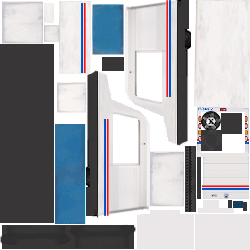
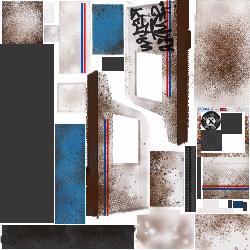
Basic multiplayer controller sensing - Input from new controller creates new player - KB and mouse considered 2 different controllers - Attempted moving new players to spawn points, partially working - Fixed minor primary input bug - Added new vehicle textures

diff --git a/Assets/Karting/Scripts/EventManager.cs b/Assets/Karting/Scripts/EventManager.cs
@@ -4,6 +4,7 @@ using System.Collections;
 using System.Collections.Generic;
 using UnityEditor;
 using UnityEngine;
+using UnityEngine.InputSystem;
 
 // Middleman for game events and interested objects
 // Uses events when multiple listeners for a game event
@@ -15,10 +16,13 @@ public class EventManager : MonoBehaviour
 
     // Fields
     [SerializeField]
-    InGameMenuManager gameMenuManager;
+    private InGameMenuManager gameMenuManager;
+    [SerializeField]
+    private List<GameObject> playerPrefabs;
 
     // Fields
     public GameObject spawnPointTree;
+    private List<Transform> recentSpawnPoints = new List<Transform>();
     // LATER: Set length when player count is determined
     private Timer[] respawnTimers = new Timer[4];
 
@@ -33,6 +37,8 @@ public class EventManager : MonoBehaviour
         // Initialize respawn timers
         for (int i = 0; i < respawnTimers.Length; i++)
             respawnTimers[i] = new Timer(3, false);
+
+        PlayerInputManager.instance.playerPrefab = playerPrefabs[0];
     }
 
     // Start is called before the first frame update
@@ -63,6 +69,16 @@ public class EventManager : MonoBehaviour
         }
     }
 
+    void OnPlayerJoined(PlayerInput pInput)
+    {
+        // Move new player to spawn point
+        Transform spawnPoint = GetSpawnPoint();
+        pInput.transform.GetChild(0).GetComponent<ArcadeKart>().transform.SetPositionAndRotation(spawnPoint.position, spawnPoint.rotation);
+
+        // Swaps next player to other vehicle
+        PlayerInputManager.instance.playerPrefab = playerPrefabs[(Player.players.Count + 1) % 2];
+    }
+
     public void PlayerDeath(object sender, ScoreEventArgs e)
     {
         // start respawn timer for dead player
@@ -74,10 +90,29 @@ public class EventManager : MonoBehaviour
             GameManager.Instance.AwardPoints(e.scorerId, e.scoreEvent);
     }
 
+    public Transform GetSpawnPoint()
+    {
+        Transform spawnpoint;
+
+        do
+        {
+            // Select a random spawn point
+            spawnpoint = spawnPointTree.transform.GetChild(UnityEngine.Random.Range(0, spawnPointTree.transform.childCount));
+
+            // Reselect if this spawn was recently used
+        } while (recentSpawnPoints.Contains(spawnpoint));
+
+        // Track 3 most recently used spawns
+        recentSpawnPoints.Add(spawnpoint);
+        if (recentSpawnPoints.Count > 3) recentSpawnPoints.RemoveAt(0);
+
+        return spawnpoint;
+    }
+
     public void RespawnPlayer(int playerId)
     {
         // randomly pick a respawn point
-        Transform spawnPoint = spawnPointTree.transform.GetChild(UnityEngine.Random.Range(0, spawnPointTree.transform.childCount));
+        Transform spawnPoint = GetSpawnPoint();
 
         // respawn player at selected point
         GameManager.Instance.players[playerId].Respawn(spawnPoint.position, spawnPoint.rotation);

diff --git a/Assets/Karting/Scripts/PackageDelivery/PizzaWeapon.cs b/Assets/Karting/Scripts/PackageDelivery/PizzaWeapon.cs
@@ -35,7 +35,6 @@ public class PizzaWeapon : Weapon
         // Update weapon cooldowns
         primaryClock.Update(Time.deltaTime);
         gadgetClock.Update(Time.deltaTime);
-        Debug.Log(gadgetClock.Time);
 
         // Fire primary while input is held
         if (isPrimaryActive)

diff --git a/Assets/Karting/Scripts/PackageDelivery/Weapon.cs b/Assets/Karting/Scripts/PackageDelivery/Weapon.cs
@@ -74,7 +74,7 @@ public class Weapon : MonoBehaviour
 
     virtual public void OnPrimary(InputValue val)
     {
-        isPrimaryActive = val.Get<float>() > 0;
+        isPrimaryActive = val.Get<float>() > 0.5;
     }
 
     // For AI use
